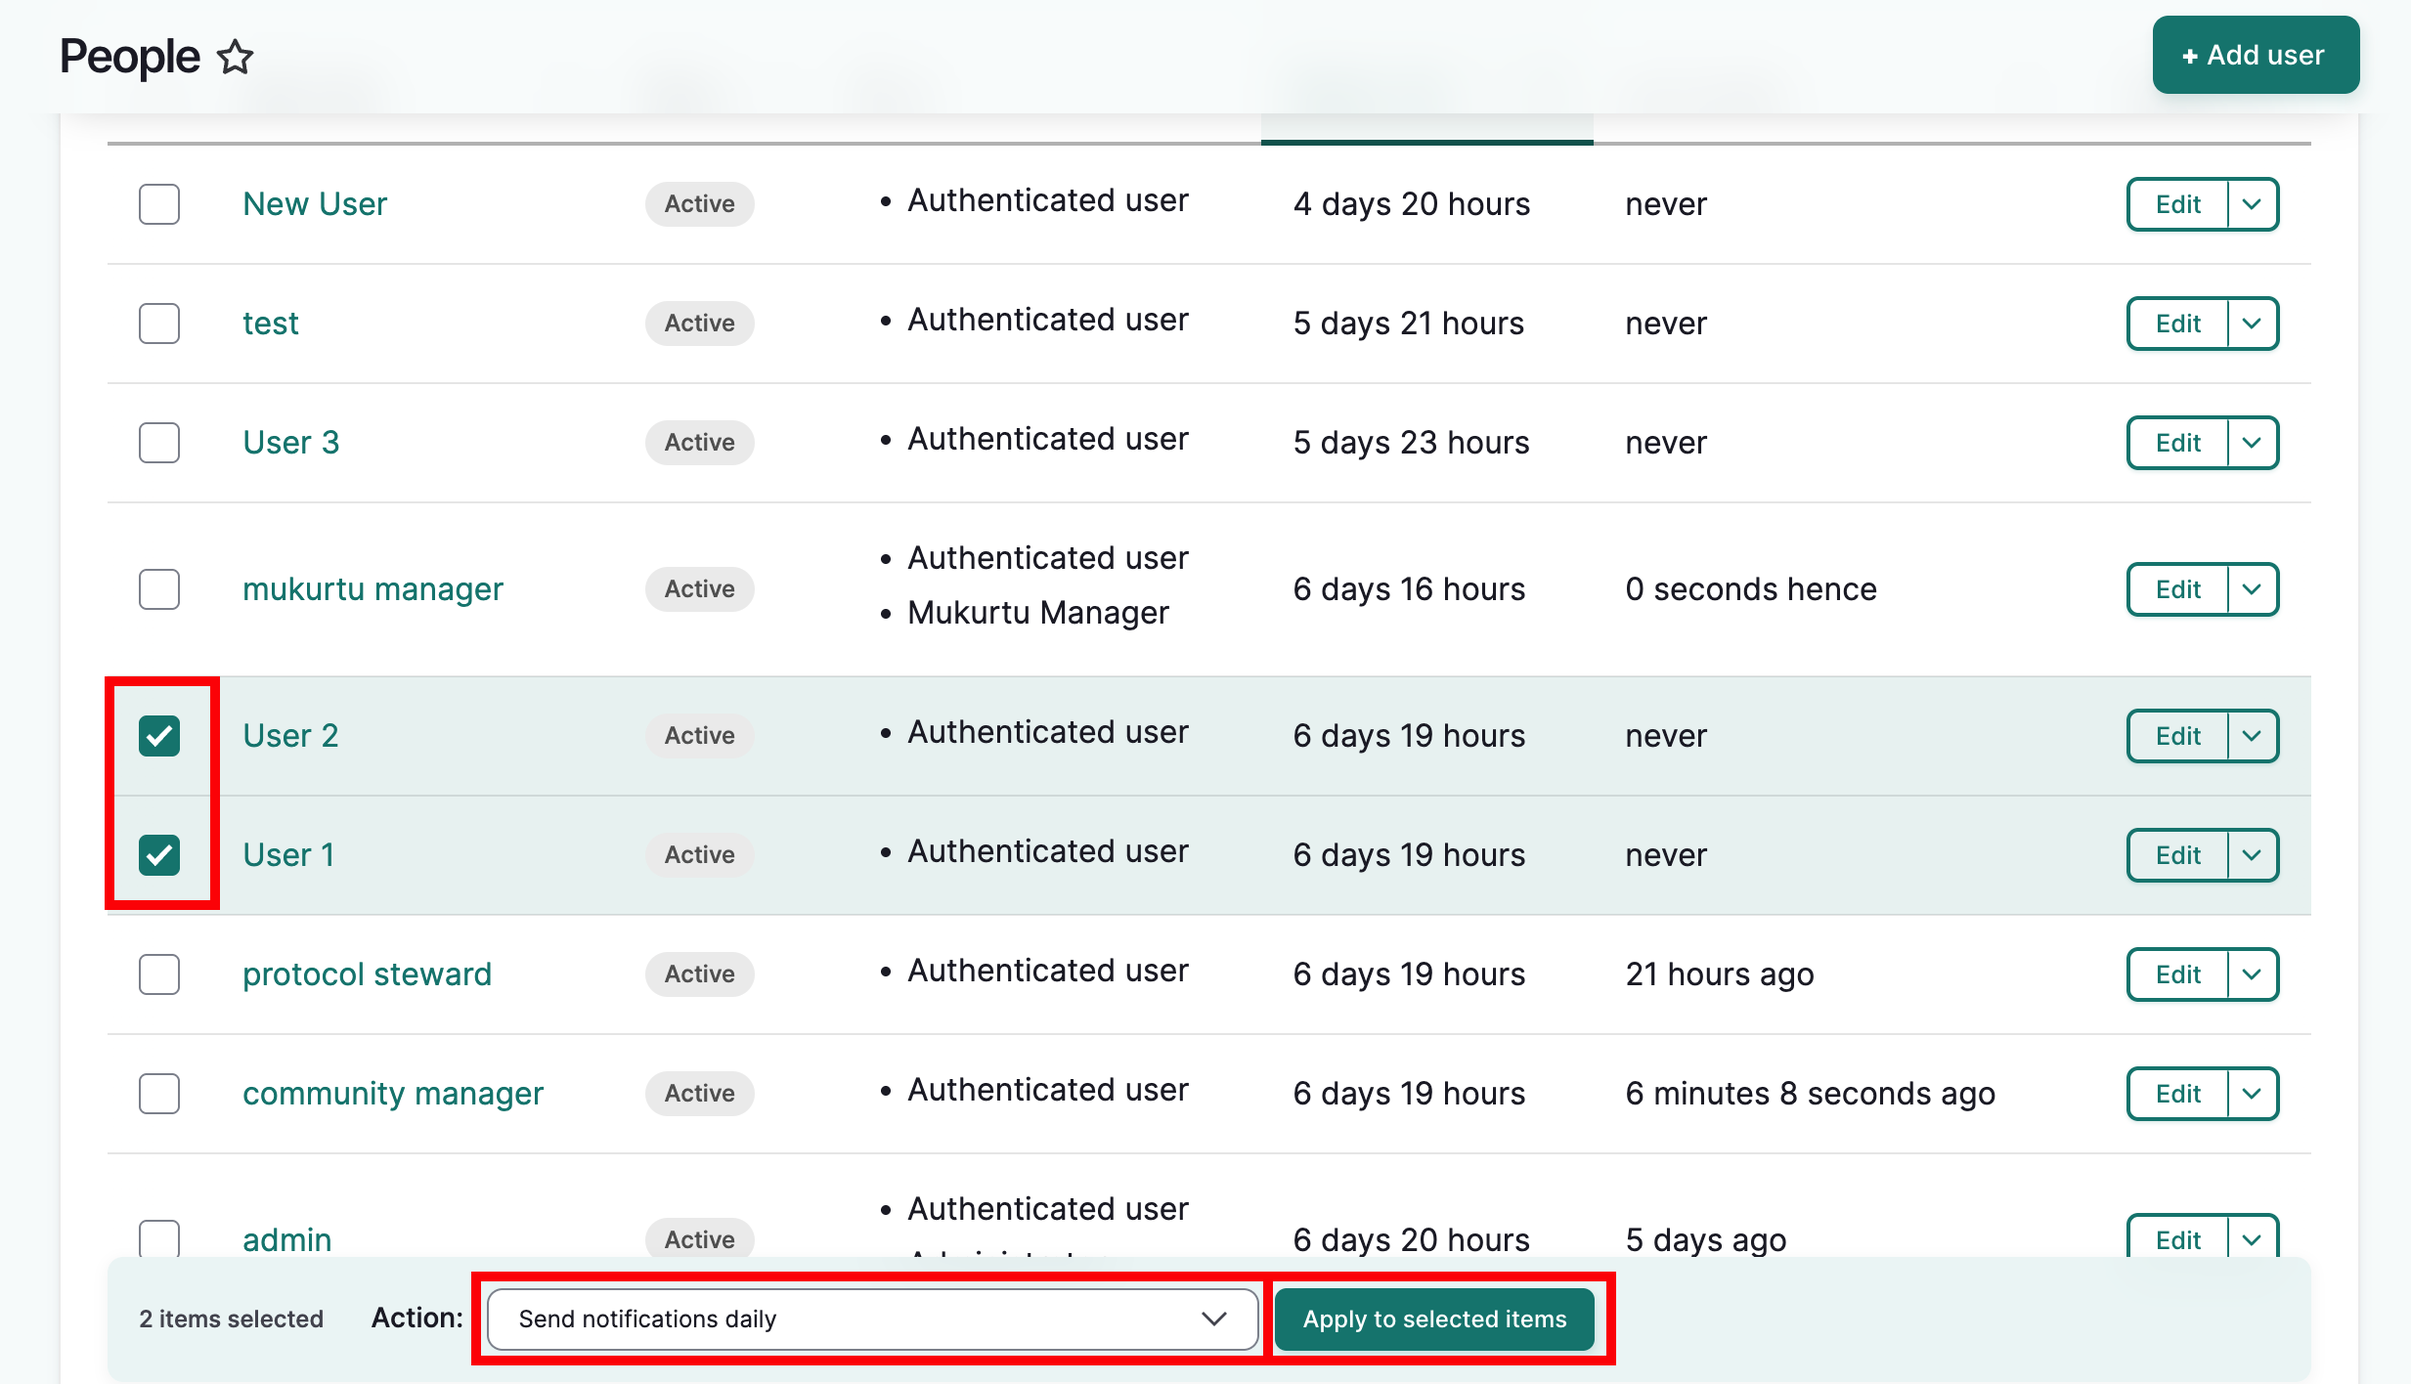
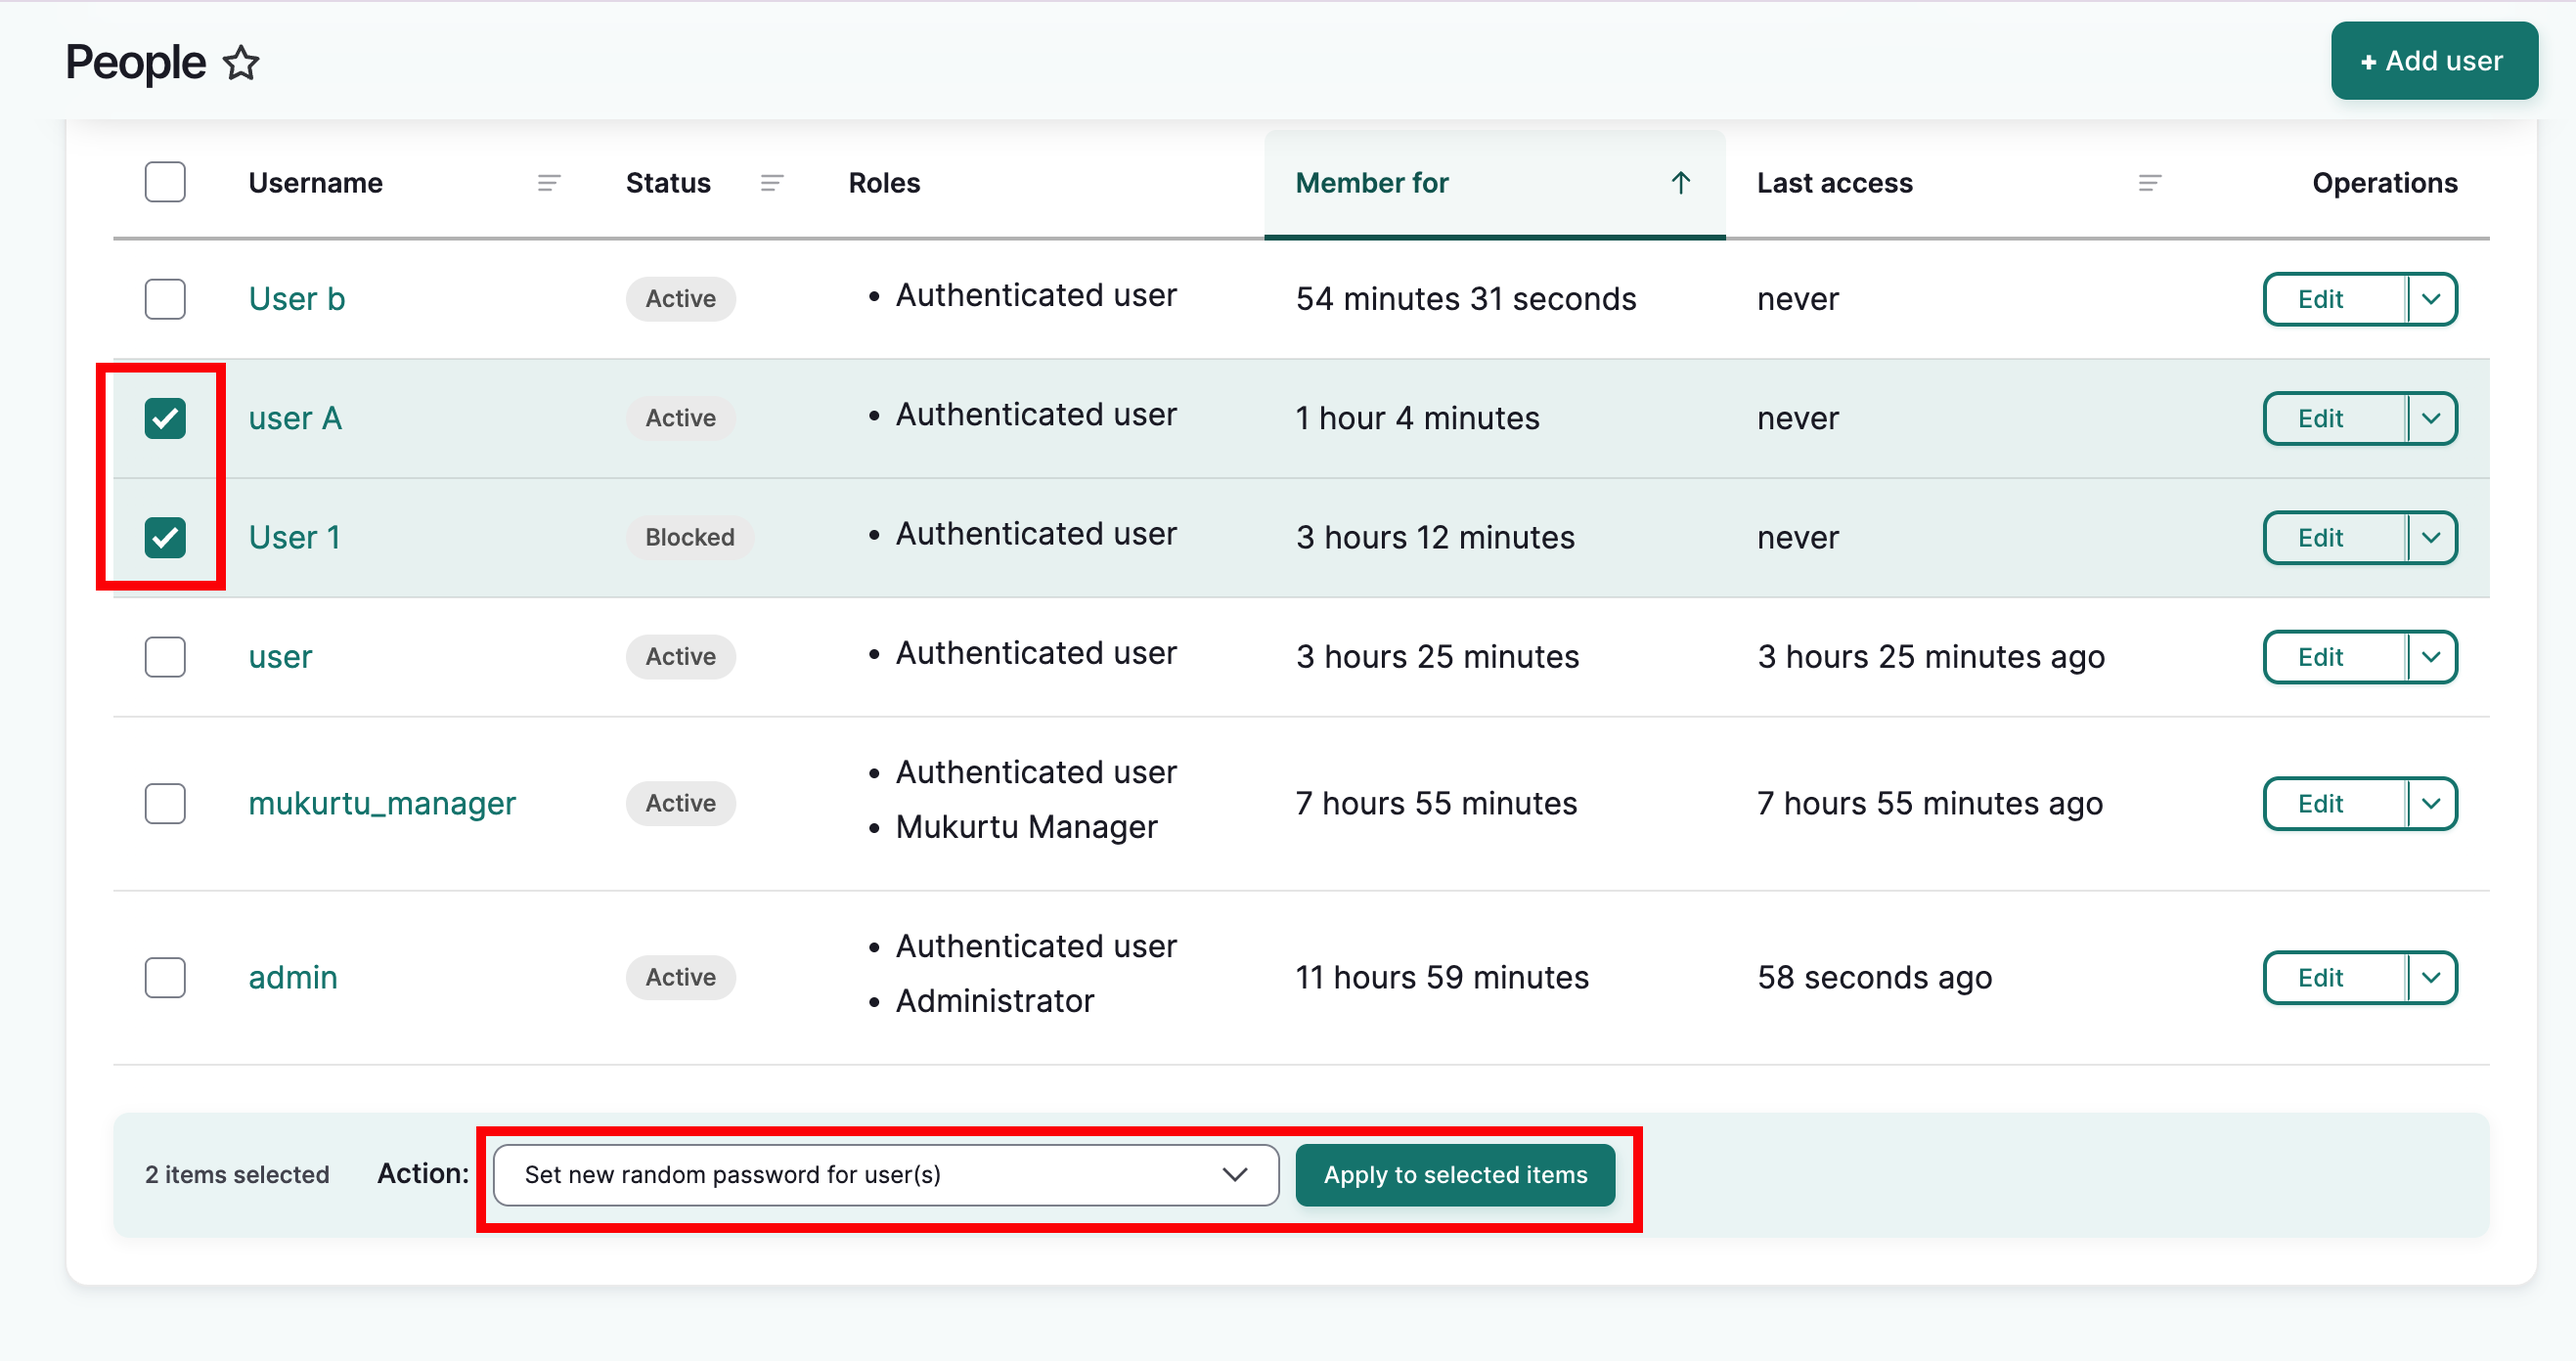
Edits to user management articles

diff --git a/docs/users/creating-account-site-wide.md b/docs/users/creating-account-site-wide.md
@@ -22,9 +22,9 @@ Method 1: Select the **People** icon from the left-hand menu, then select **Add 
 
 ![People page with add user button highlighted](../_embeds/add-user-account-02.png)
 
-Method 2: In the **Add component** drop down menu, select **+ User**  to open the add user form.
+Method 2: From the dashboard, in the **Users** section, select **Add User**
 
-![The add component dropdown menu with the add user menu item highlighted.](../_embeds/add-user-account-03.png)
+![The dashboard with the add user link highlighted.](../_embeds/add-user-account-03.png)
 
 Method 3: Append `/admin/people/create` to your URL in your browser's address bar.
 
@@ -42,15 +42,18 @@ Once the form is open, fill out the form.
 
     ![The add user form with email address, username and password filled out](../_embeds/add-user-account-05.png)
 
-4. Select the appropriate status. 
+4. You can add an optional display name that differs from their username. This will display if the user leaves comments on content. 
 
-- Active members can act as normal, based on their user role and permissions.
-- Blocked members cannot log in to the site. They are typically blocked for two reasons:
+    ![The status, role, notify user and display fields filled out and or toggled on](../_embeds/add-user-account-06.png)
 
-    1. When a user submits an account request, their account is created and their status is set to "Blocked" until the Mukurtu manager approves the account and changes their status to "Active".
-    2. When a user takes inappropriate actions that warrant a temporary loss of access to the site. To access the site again, their status must be changed to "Active."
+5. Select the appropriate status. 
+    - Active members can act as normal, based on their user role and permissions.
+    - Blocked members cannot log in to the site. They are typically blocked for two reasons:
 
-5. Select a site-wide role for the user. By default, all users are assigned the authenticated user role, and this is the correct setting for the majority of users. This role allows them to view public material and save content to their own personal collections. The administrator and Mukurtu manager roles are for users who manage the site and therefore have additional access to controls and settings. The Roundtrip manager role can be assigned to users who need access to roundtrip (import/export) tools. Assign these roles with extreme caution.
+        1. When a user submits an account request, their account is created and their status is set to "Blocked" until the Mukurtu manager approves the account and changes their status to "Active".
+        2. When a user takes inappropriate actions that warrant a temporary loss of access to the site. To access the site again, their status must be changed to "Active."
+
+6. Select a site-wide role for the user. By default, all users are assigned the authenticated user role, and this is the correct setting for the majority of users. This role allows them to view public material and save content to their own personal collections. The administrator and Mukurtu manager roles are for users who manage the site and therefore have additional access to controls and settings. The Roundtrip manager role can be assigned to users who need access to roundtrip (import/export) tools. Assign these roles with extreme caution.
 
     !!! tip
 	    For detailed information about user account requests, see [Request an Account](request-an-account.md).
@@ -58,16 +61,25 @@ Once the form is open, fill out the form.
     !!! tip
 	    For more information on user roles, see [User Roles](user-role-types.md)
 
-6. To notify the user of their new account, set the toggle to green. This is optional.
+7. To notify the user of their new account, set the toggle to green. This is optional.
 
-7. You can add an optional display name that differs from their username. This will display if the user leaves comments on content. 
+8. To notify other users of this account, expand the **Notify other users of this account** section. Use the toggle/checkboxes to:
+    -  Notify all Mukurtu managers
+    - Notify community managers
+    - Notify protocol stewards
+    
+    You can also notify specific users by searching for their username. To notify additional users, select "Add another user."
 
-    ![The status, role, notify user and display fields filled out and or toggled on](../_embeds/add-user-account-06.png)
+![The notify other users of this account field with the community manager and protocol steward of the Tribal Community and Tribal Community Strict protocol selected](../_embeds/add-user-account-46.png)
 
-9. Select "Create new account" to create the user account. The form will reload and a success message will be displayed.
+9. If your site is multilingual, you can select the site language for the user. Email notifications will be sent in this language, as will the userʻs profile information.
+
+10. Select "Create new account" to create the user account. The form will reload and a success message will be displayed.
 
     ![Reloaded blank add user form with a success message displayed at the top of the page](../_embeds/add-user-account-07.png)
 
-!!! Tip
-    Users will be able to edit these settings when they log in.
+    !!! Tip
+        Users will be able to edit these settings when they log in.
+
+
 

diff --git a/docs/users/manage-user-accounts-site-wide.md b/docs/users/manage-user-accounts-site-wide.md
@@ -23,12 +23,10 @@ You will be returned to the user list and a success message will be displayed.
 ## Bulk manage user accounts
 You can also make certain changes to user accounts in bulk. Available changes are:
 
-- Send notifications daily
-    - A digest of notifications will be sent on a daily basis.
-- Send notifications immediately 
-    - Notifications will be sent immediately as they are generated.
-- Send notifications weekly 
-    - A digest of notifications will be sent on a weekly basis.
+- Set new random passwords for users
+    - The selected users passwords will be reset to an auto-generated password. 
+- Update URL alias
+    - 
 - Add the administrator role to the selected users 
     - The selected users will be assigned the administrator role 
 - Add the Mukurtu Manager role to the selected users (use with extreme caution!)
@@ -56,29 +54,13 @@ You can also make certain changes to user accounts in bulk. Available changes ar
 
 4. You will receive different results depending on the action item you select. Below are descriptions of the results of applying steps 1-3 above for each action item, and any additional instructions as needed.
 
-### Send notifications daily 
+### Set new random passwords for users.
 1. Complete steps 1-3.
-![People page with two users selected and the "Send notifications daily" action selected](../_embeds/add-user-account-15.png)
+![People page with two users selected and the "set new random passwords for" action selected](../_embeds/add-user-account-15.png)
 
-2. A success message is displayed. (Verify this)
+2. A success message is displays the newly generated password. Be sure to store the passwords in a secure location.
+
 SCREENSHOT 16
-![People page with success message displayed](../_embeds/placeholderscreenshot.png)
-
-### Send notifications immediately
-1. Complete steps 1-3.
-
-![People page with two users selected and the "Send notifications immediately" action selected](../_embeds/add-user-account-17.png)
-
-2. A success message is displayed. (Verify this)
-SCREENSHOT 18
-![People page with success message displayed](../_embeds/placeholderscreenshot.png)
-
-### Send notifications weekly
-1. Complete steps 1-3.
-![People page with two users selected and the "Send notifications weekly" action selected](../_embeds/add-user-account-19.png)
-
-2. A success message is displayed. (verify this)
-SCREENSHOT 20
 ![People page with success message displayed](../_embeds/placeholderscreenshot.png)
 
 ### Add the administrator role to the selected users

diff --git a/docs/users/manage-user-account-registration.md b/docs/users/manage-user-account-registration.md
@@ -41,6 +41,27 @@ Scroll down to the Registration and cancellation section.
 	- Delete the account and make its' content belong to the Anonymous User. This action cannot be undone. - This deletes the account. Any content created by the user is assigned to "Anonymous User."
     ![Cancellation options listed with Disable the account and keep its' content selected](../_embeds/manage-user-registration-07.png)
 
+## Password settings for user account registration
+
+7. Determine how passwords are handled on the user registration form. Some of these options are contingent on whether email verification is enabled above. When email verification is enabled, passwords will be generated via the email verification link and are not necessary during registration. Select one of:
+    - Users **must** enter a password on registration. This is option is not available if email verification is enabled.
+    - Users **may** enter a password on registration. If left empty, a random password will be generated. This is option is not available if email verification is enabled.
+    - Users **cannot** enter a password on registration; a random password will be generated. This option is the only valid choice if email verification is enabled above.
+
+8. Determine how passwords are handled on the Add User form used by administrators. Select one of:
+    - Admins **may** set a password when creating or editing an account.
+    - Admins **cannot** set a password when creating or editing an account.
+
+9. Determine how generated passwords should display after they are created either by administrators or by users. Select one of:
+    - Do not display.
+    - Display when site administrators create new user accounts.
+    - Display when users create their own accounts.
+    - Display to both site administrators and users.
+
+10. Set the generated password length between 5 and 32 characters.
+
+![The password settings for user account registration for both users and administrators](../_embeds/manage-user-registration-09.png)
+
 ## Configure email notifications
 
 6. Use the *Notification Email Address* field to specify an email address for notifications. All automated email messages will be sent from this address. This email will also receive notifications if 'Visitors, but administrator approval required' is selected above. Leave this field blank to use the default system email address.
